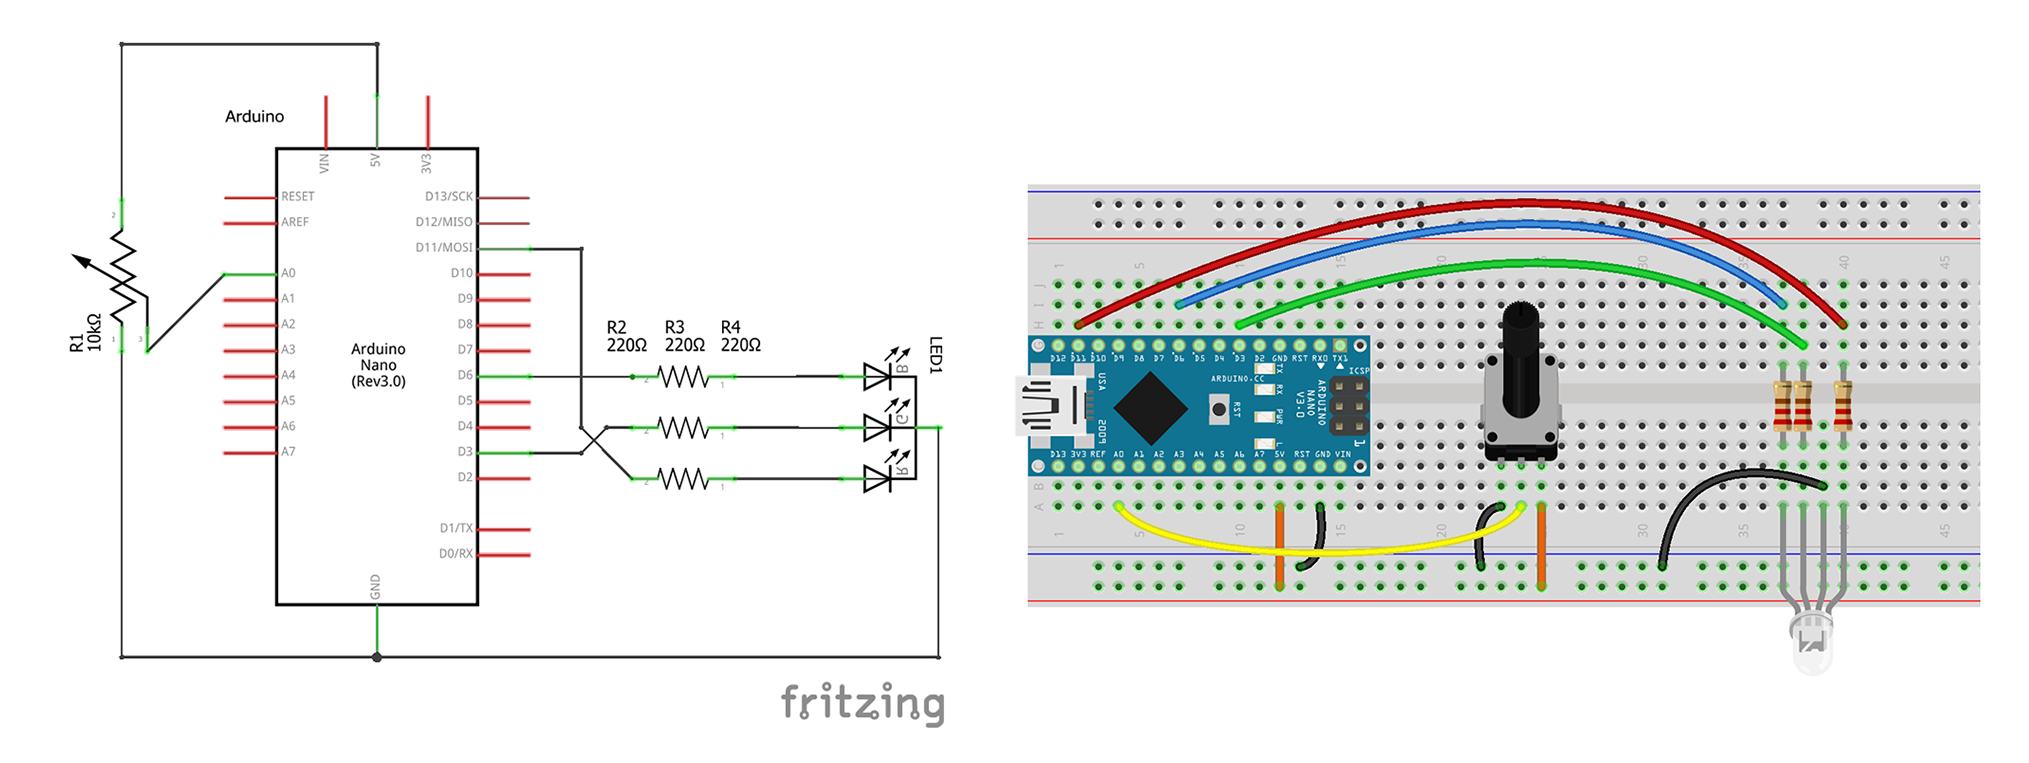
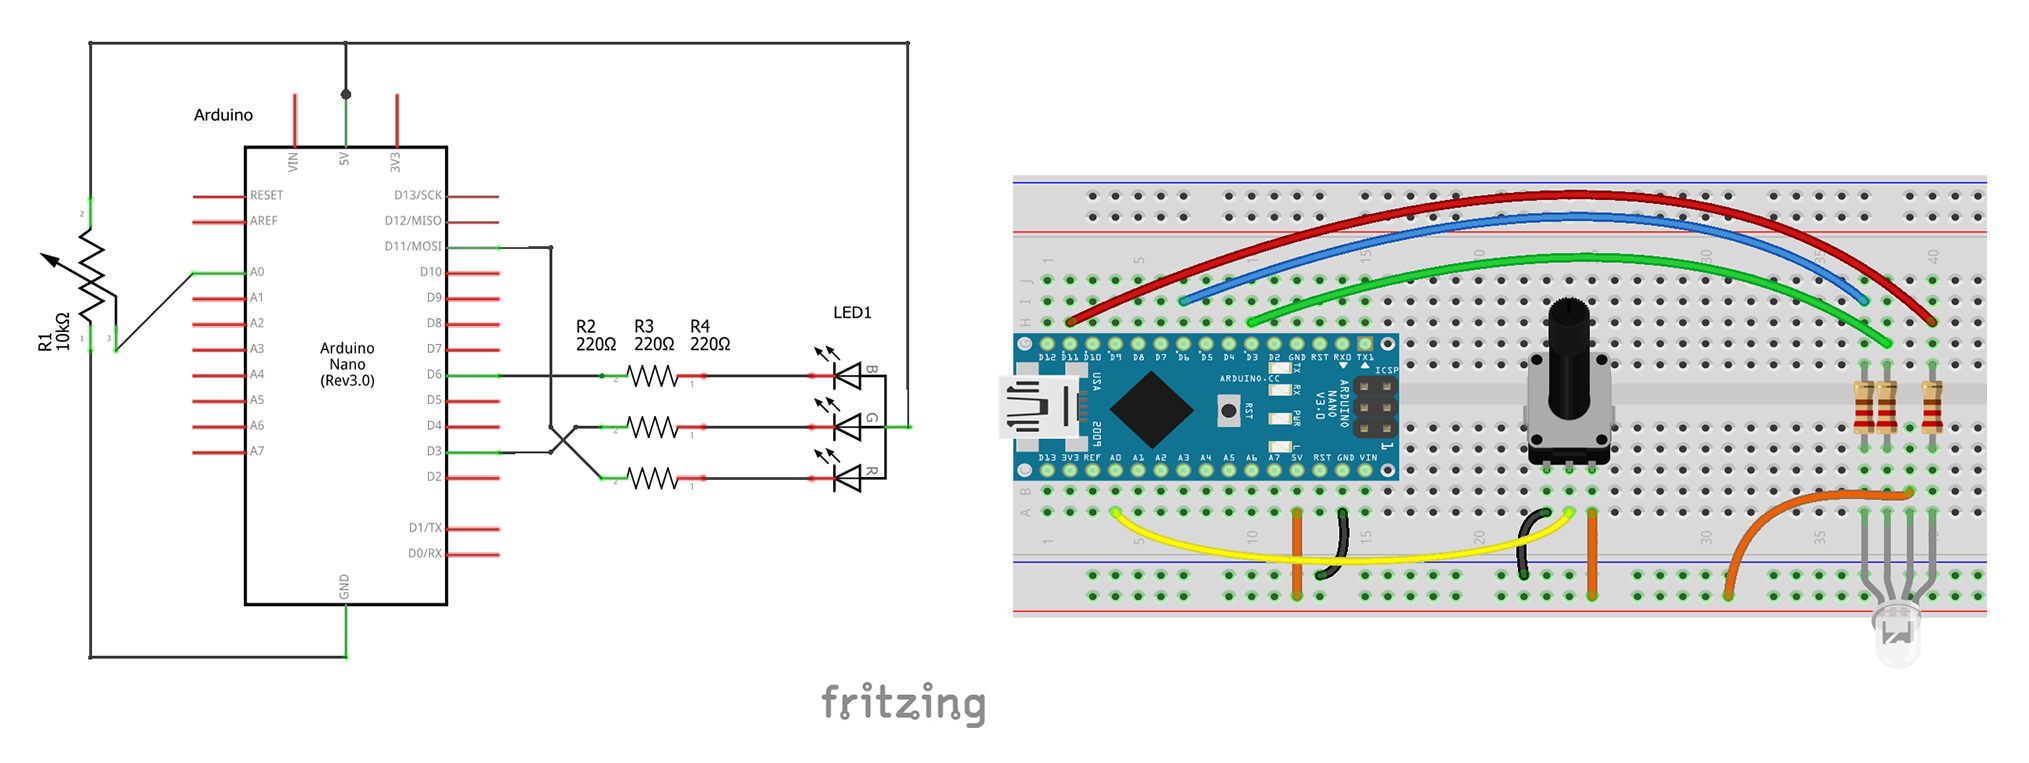
anode common

diff --git a/Channel.h b/Channel.h
@@ -243,6 +243,8 @@ public:
     }
     
     inline bool getSafe( uint16_t _pos ) {
+        if (_pos > width ) _pos = width;
+        if (_pos < 0 ) _pos = 0;
         return *( buffer[currentBuffer] + _pos / 8 ) & ( 1 << _pos % 8 ) ? true : false;
     }
     

diff --git a/README.md b/README.md
@@ -41,7 +41,7 @@ La sintonía del RSD en este esquema la haremos a través del puerto serie.
 Lista de componentes:
 
 - 1 Arduino
-- 1 LED RGB 5mm cátodo común (en lo posible difuso, si no añadiremos un difursor)
+- 1 LED RGB 5mm ánodo común (en lo posible difuso, si no añadiremos un difursor)
 - 3 resistencias 220 Ω
 - 1 Potenciómetro de entre 5 kΩ ~ 10 kΩ
 
